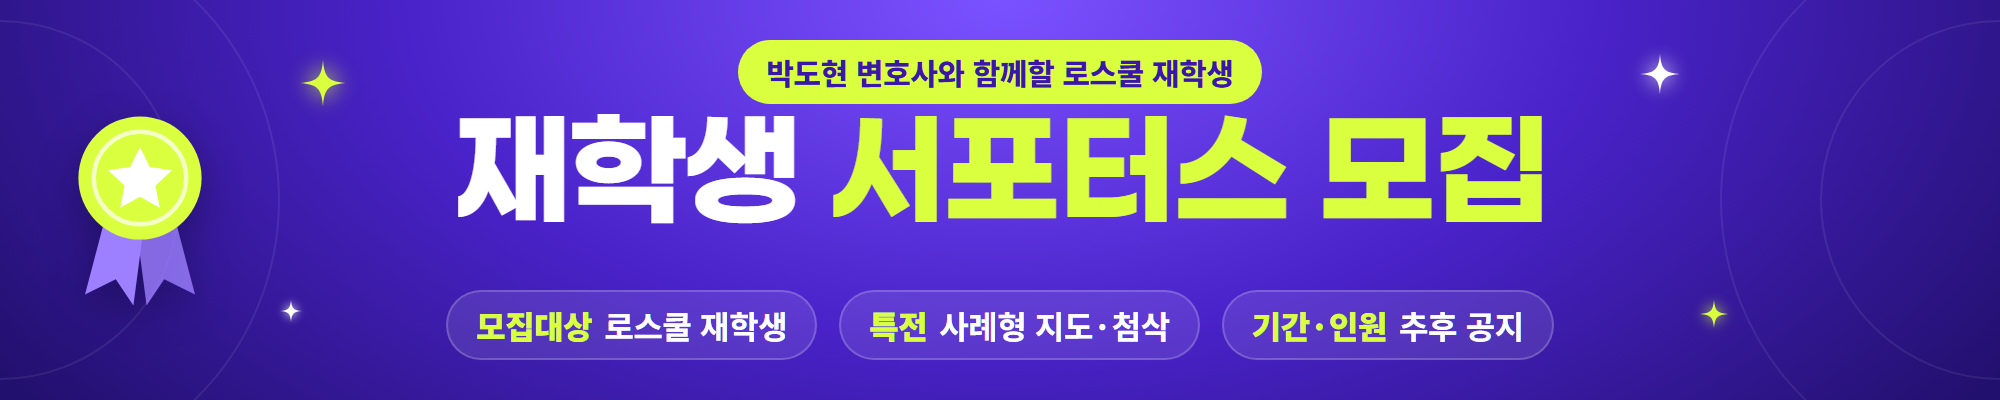
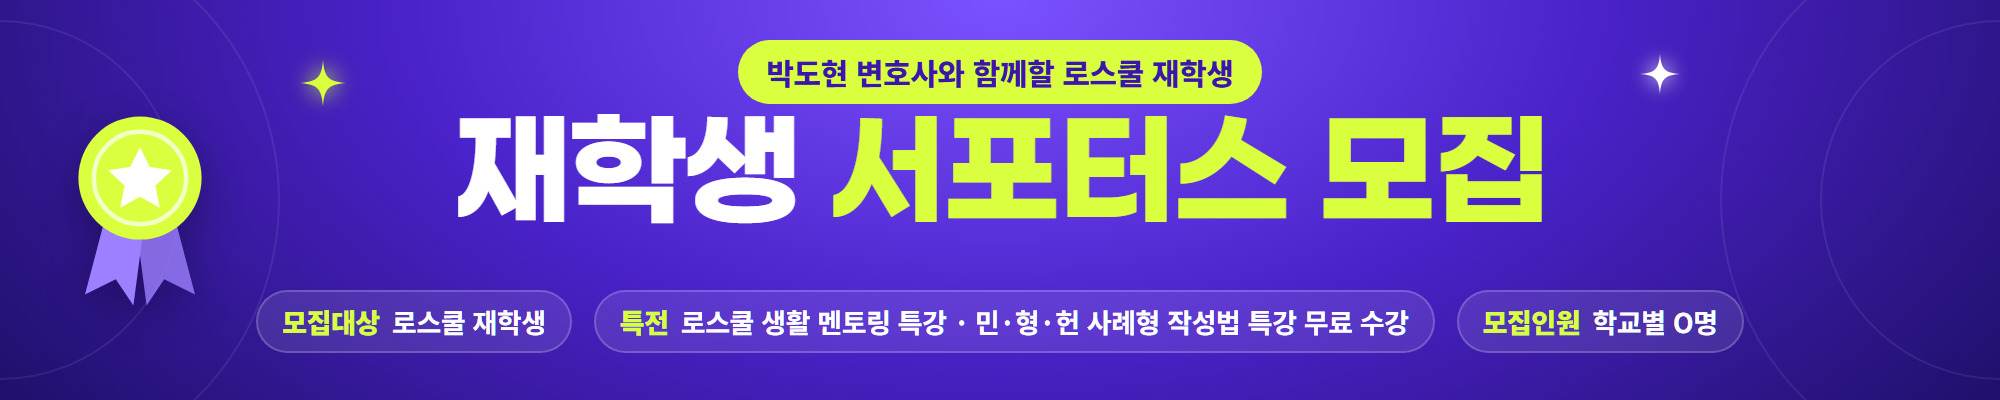
배너 7종으로: 외양간 고치기 프로젝트 추가, 문구 수정분 반영

diff --git a/js/config.js b/js/config.js
@@ -49,7 +49,8 @@ window.SITE_CONFIG = {
     { key: 'leet',       alt: '박도현 변호사의 LEET 추리논증·논술 과외', url: 'https://cafe.daum.net/lsinfo/nafW/80' },
     { key: 'civil',      alt: '박도현 변호사의 민법 사례형 클리닉(온라인)', url: 'https://cafe.daum.net/lsinfo/nafW/81' },
     { key: 'mentoring',  alt: '로스쿨 생활 멘토링 특강', url: '' },
-    { key: 'supporters', alt: '재학생 서포터스 모집', url: '' }
+    { key: 'supporters', alt: '재학생 서포터스 모집', url: '' },
+    { key: 'barn',       alt: '외양간 고치기 프로젝트', url: '' }  // 2026학년도 글은 nafW/75. 2027학년도 글 확인 후 넣는다
   ],
 
   // 방문 통계(js/analytics.js가 읽는다). 값이 비어 있는 도구는 불러오지 않는다. lawpass.net에서만 켜진다.

diff --git a/CLAUDE.md b/CLAUDE.md
@@ -80,7 +80,7 @@ CNAME                   lawpass.net
 
 - **머리글**: 로고 마크(갈색 둥근 사각형 + L + 체크) + "Lawpass.net"(.net 갈색) + 구분선 + "**박도현 변호사**의 / 로스쿨 입시 종합 정보". 모바일은 2줄(이름 줄 / 메뉴 줄).
 - **카운트다운**: 모든 탭 맨 위 한 줄에 [카운트다운 | 📢 카페 공지](바로가기 탭 아래쪽 공지는 숨김). `config.countdown.events`(label·note·at(+09:00)·afterText) + `finals: true`면 전형일정의 최종 합격자 발표를 날짜별로 묶어(그날 적힌 가장 이른 시각, 없으면 09:00) 이어 붙인다. 빠른 순으로 하나씩 보여주고, afterText가 있으면 시각 뒤 그날 자정까지 그 문구를 보여준 뒤 다음으로 넘어간다. 점검은 주소 뒤 `?cdnow=2026-12-10T12:00:00%2B09:00`.
-- **배너**: 6종(`config.banners`: key·alt·url). PC 맨 위 오른쪽 410px 정사각(왼쪽 타이머·공지 묶음은 그림 높이 410px에 맞춤)(`img/banners/sq-{key}.png`, 1080×1080), 모든 탭 맨 아래 가로(`wide-{key}.png`, 2000×400, 최대 폭 1000px). 방문마다 서로 다른 둘을 무작위로 고르고, 좌우 버튼·아래 점으로 넘길 때도 위·아래가 같은 배너가 되지 않게 건너뛴다. url이 빈 배너는 눌러도 이동하지 않는다(멘토링·서포터스 주소 미정). 모바일(820px 이하)은 타이머·맨 위 카페 공지를 빼고 정사각 배너를 맨 위에 두며, 바로가기 탭 공지를 보인다.
+- **배너**: 7종(`config.banners`: key·alt·url). PC 맨 위 오른쪽 410px 정사각(왼쪽 타이머·공지 묶음은 그림 높이 410px에 맞춤)(`img/banners/sq-{key}.png`, 1080×1080), 모든 탭 맨 아래 가로(`wide-{key}.png`, 2000×400, 최대 폭 1000px). 방문마다 서로 다른 둘을 무작위로 고르고, 좌우 버튼·아래 점으로 넘길 때도 위·아래가 같은 배너가 되지 않게 건너뛴다. url이 빈 배너는 눌러도 이동하지 않는다(멘토링·서포터스 주소 미정). 모바일(820px 이하)은 타이머·맨 위 카페 공지를 빼고 정사각 배너를 맨 위에 두며, 바로가기 탭 공지를 보인다.
 - **추합현황**: 안내문(빨간 글자 의미 포함) → 📢 카페 공지([공지] 고정글만) → 큰 제보 버튼 2개(시트 직접 입력 = 2026 탭 / 카페 제보 게시글) → 연도 선택(2026~2020) → 전체/가군/나군 → 보기(표 / 학교별 추이 / 학교 비교) → 학교 검색.
   - 표: 원문 그대로, 확인값 빨간 굵은 글씨, 머리글 가운데 정렬, 학교명 열 고정.
   - 학교별 추이: 연도별 총계 막대(확인값 빨강/제보값 검정, 나군은 연한 막대, 통합은 "통합 n") + 아래 범례 상자 + 주차별 누적 선그래프 + 연도별 원문 표.
